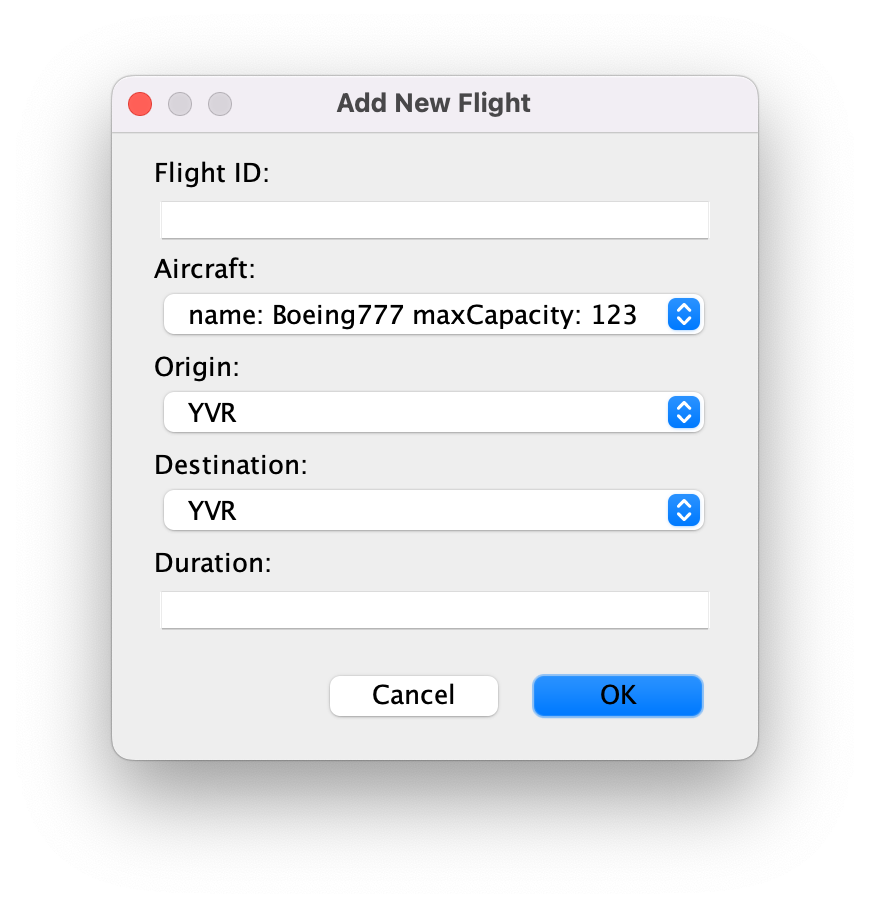
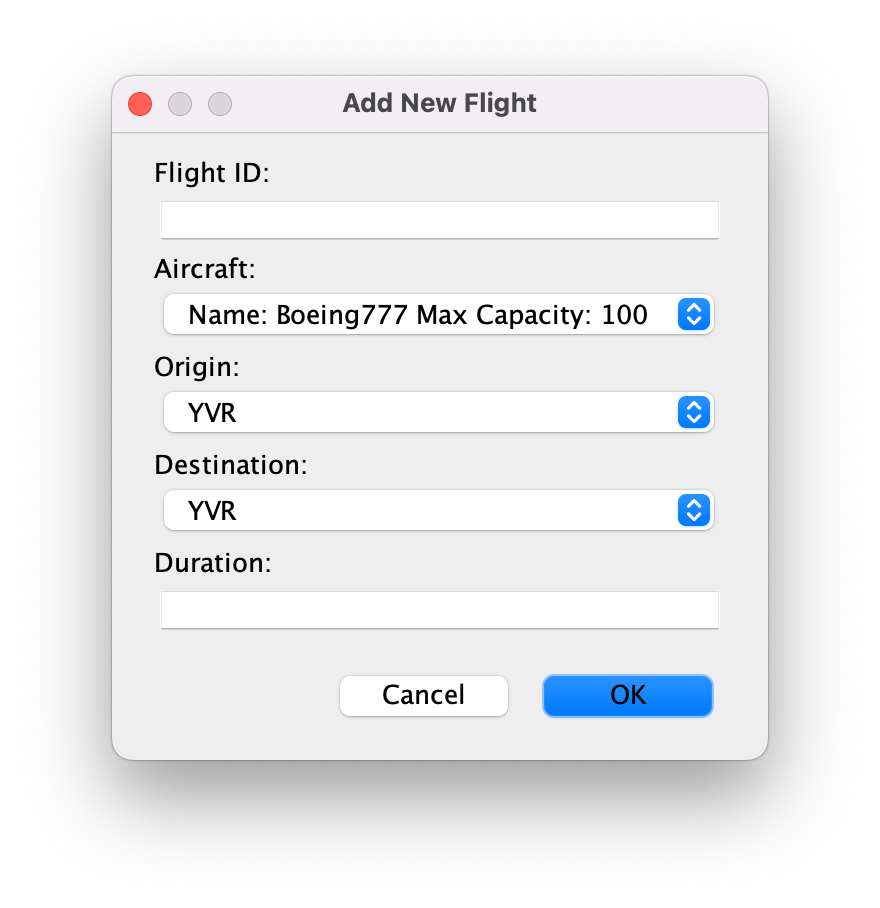
Phase 4: Completed

diff --git a/src/main/ui/AirportUI.java b/src/main/ui/AirportUI.java
@@ -17,6 +17,7 @@ import java.awt.event.*;
 import java.io.FileNotFoundException;
 import java.io.IOException;
 import java.util.List;
+import java.util.Objects;
 import java.util.Scanner;
 
 // Represents the airport application
@@ -29,7 +30,6 @@ public class AirportUI extends JFrame implements Writable, ListSelectionListener
     private FlightVisualizer visualizer;  // wish list
     private JsonWriter jsonWriter;
     private JsonReader jsonReader;
-    private EventLog log;
 
     private JScrollPane mainMenu;
     private JDesktopPane desktop;
@@ -420,6 +420,7 @@ public class AirportUI extends JFrame implements Writable, ListSelectionListener
                 JOptionPane.OK_CANCEL_OPTION, JOptionPane.PLAIN_MESSAGE);
         if (result == JOptionPane.OK_OPTION) {
             Passenger passenger = (Passenger) passengerDropdown.getSelectedItem();
+            assert passenger != null;  // to catch NullPointerExceptions
             passenger.addToBookedFlights(flight);
             flight.addPassenger(passenger);
         }
@@ -436,6 +437,7 @@ public class AirportUI extends JFrame implements Writable, ListSelectionListener
                 JOptionPane.OK_CANCEL_OPTION, JOptionPane.PLAIN_MESSAGE);
         if (result == JOptionPane.OK_OPTION) {
             Passenger passenger = (Passenger) passengerDropdown.getSelectedItem();
+            assert passenger != null; // to catch NullPointerExceptions
             flight.removePassenger(passenger.getPassengerID());
         }
     }
@@ -557,15 +559,18 @@ public class AirportUI extends JFrame implements Writable, ListSelectionListener
             String aircraftName = ((JTextField) fields[1]).getText();
             int maxCapacity = Integer.parseInt(((JTextField) fields[3]).getText());
             String aircraftType = (String) aircraftTypesComboBox.getSelectedItem();
-            if (aircraftType.equals("Cargo Aircraft")) {
-                listOfAircraft.addElement(new CargoAircraft(aircraftName, maxCapacity));
-            } else if (aircraftType.equals("Passenger Aircraft")) {
-                listOfAircraft.addElement(new PassengerAirline(aircraftName, maxCapacity));
-            } else if (aircraftType.equals("Private Jet")) {
-                listOfAircraft.addElement(new PrivateJet(aircraftName, maxCapacity));
+            switch (Objects.requireNonNull(aircraftType)) {
+                case "Cargo Aircraft":
+                    listOfAircraft.addElement(new CargoAircraft(aircraftName, maxCapacity));
+                    break;
+                case "Passenger Aircraft":
+                    listOfAircraft.addElement(new PassengerAirline(aircraftName, maxCapacity));
+                    break;
+                case "Private Jet":
+                    listOfAircraft.addElement(new PrivateJet(aircraftName, maxCapacity));
+                    break;
             }
             updateAircraftWindow();
-            System.out.println(aircraftName + " is now in the system!");
         }
     }
 
@@ -618,7 +623,7 @@ public class AirportUI extends JFrame implements Writable, ListSelectionListener
         }
     }
 
-
+    //wish list feature
     // MODIFIES: this
     // EFFECTS: changes the origin/destination of a flight
     private void modifyFlight() {

diff --git a/src/main/model/Aircraft.java b/src/main/model/Aircraft.java
@@ -2,7 +2,6 @@ package model;
 
 /* This class represents a plane. A plane has a name and maximum capacity */
 
-import org.json.JSONArray;
 import org.json.JSONObject;
 import persistence.Writable;
 
@@ -29,9 +28,9 @@ public class Aircraft implements Writable {
 
     @Override
     public String toString() {
-        return "name: "
+        return "Name: "
                 + name
-                + " maxCapacity: "
+                + " Max Capacity: "
                 + maxCapacity;
     }
 

diff --git a/src/main/model/Passenger.java b/src/main/model/Passenger.java
@@ -4,7 +4,6 @@ package model;
     last name, and the travel class. A passenger is the smallest abstraction in the program
     that can be added to a plane  */
 
-import org.json.JSONArray;
 import org.json.JSONObject;
 import persistence.Writable;
 

diff --git a/README.md b/README.md
@@ -131,6 +131,7 @@ would decrease.
 ![UML Diagram](GUI_Sampler_1.png)
 ![UML Diagram](GUI_Sampler_2.png)
 
+
 ### What's Next?
 - [ ] Implementing an API that will allow users to map flights according to location
 - [ ] Adding features that would enable visual components of the (ie. the aircrafts) 
